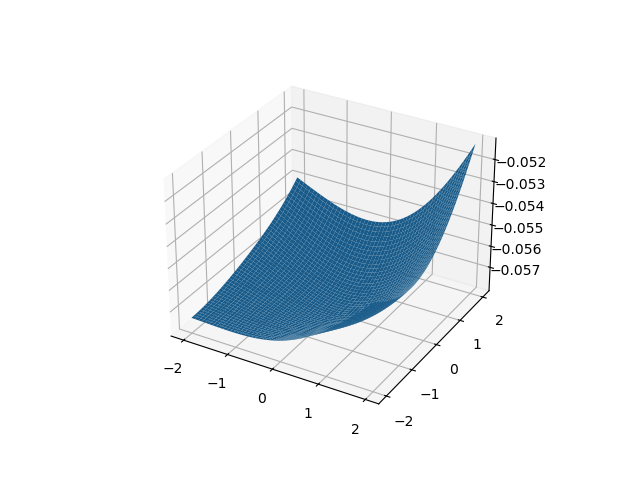
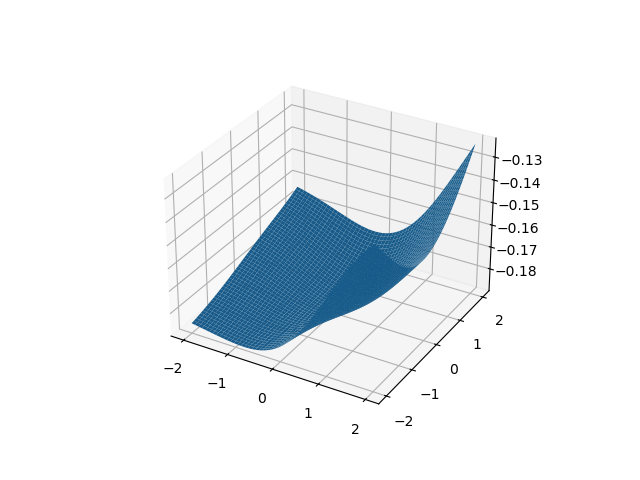
test

diff --git a/test.py b/test.py
@@ -39,6 +39,7 @@ net = networks.test_NN().to(device)
 #vals = []
 weights = np.copy(net.forward_stack[0].weight.detach().numpy()) 
 tol = 1e-5
+tol = 1e-2
 for i in range(max_runs):
     for k in tqdm(range(training_loops_per_run)):
         trainer.train_lyap(trajectories, net, device)           #start_time = time.perf_counter()
